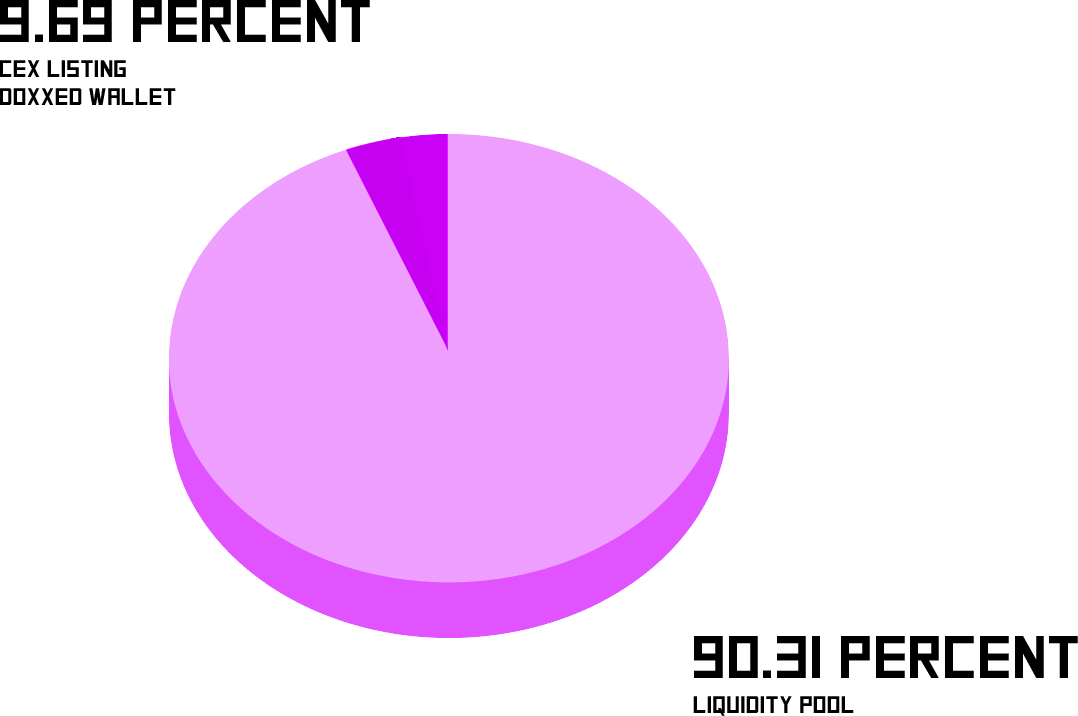
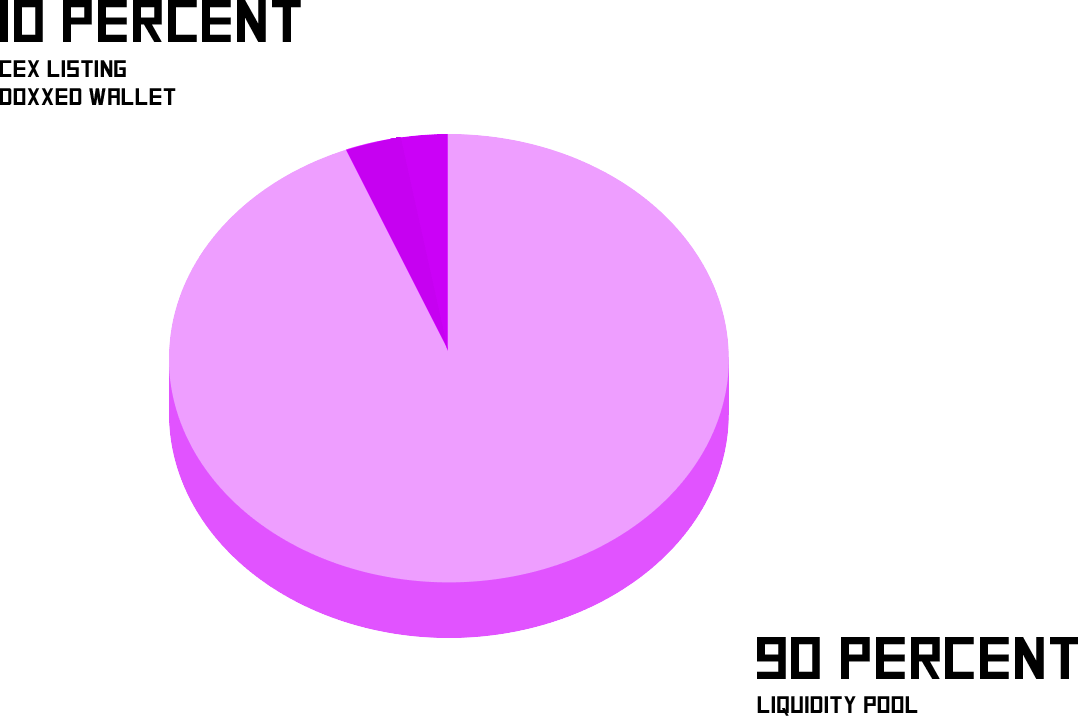
tokens

diff --git a/index.html b/index.html
@@ -74,7 +74,7 @@
                                         <a href="#tokenomics">Tokenomics</a>
                                     </li>  
                                     <li class="menu-item">
-                                        <a href="https://etherscan.io/token/0x000000000000000000000000000000">Etherscan</a>
+                                        <a href="https://etherscan.io/address/00000000000000000000000">Etherscan</a>
                                     </li> 
                                 </ul>
                             </nav>
@@ -105,7 +105,7 @@
                                 <br><br>
                                 TOGETHER WE CAN ALL GO TO THE MOON.</p>
 
-                            <a href="#" class="action-btn"><span>Buy Now</span></a>
+                            <a href="https://app.uniswap.org/#/swap?inputCurrency=ETH&outputCurrency=00000000000000000000000" class="action-btn"><span>Buy Now</span></a>
                         </div>
 
                         <div class="pay">
@@ -116,11 +116,11 @@
                                         <img src="./images/TELEGRAM.svg">
                                         </a>
                                     </li>
-                                    <li><a href="https://app.uniswap.org/">
+                                    <li><a href="https://app.uniswap.org/#/swap?inputCurrency=ETH&outputCurrency=00000000000000000000000">
                                         <img src="./images/UNISWAP.svg">
                                         </a>
                                     </li>
-                                    <li><a href="https://dextools.io/">
+                                    <li><a href="https://www.dextools.io/app/en/ether/pair-explorer/111111">
                                         <img src="./images/DEXTOOLS.svg">
                                         </a>
                                     </li>
@@ -128,7 +128,7 @@
                                         <img src="./images/TWITTER.svg">
                                         </a>
                                     </li>
-                                    <li><a href="https://etherscan.io/">
+                                    <li><a href="https://etherscan.io/address/00000000000000000000000">
                                         <img src="./images/ETHERSCAN.svg">
                                         </a>
                                     </li>
@@ -177,7 +177,7 @@ ON THE MOON, WE BUILD TOGETHER WITH EQUAL $BAGS.<br><br>
 
 NO TEAM TOKENS, NO TAX, NO SOAP DROPPING
                             </p>
-                            <a href="https://www.dextools" class="action-btn"><span>Live Chart</span></a>
+                            <a href="https://www.dextools.io/app/en/ether/pair-explorer/111111" class="action-btn"><span>Live Chart</span></a>
                     </div>
                 </div>
             </div>
@@ -275,7 +275,7 @@ NO TEAM TOKENS, NO TAX, NO SOAP DROPPING
                         <div class="icon">
                             <img class="tokenomics_icon" src="./images/SPLIT.png">
                         </div>
-                        <p>*CEX - 9.69% / LP - 90.31%</p>
+                        <p>*CEX - 10% / LP - 90%</p>
                         <!--<h3 class="number">02</h3>-->
                     </div>
                 </div>
@@ -295,7 +295,7 @@ NO TEAM TOKENS, NO TAX, NO SOAP DROPPING
                         <div class="icon">
                             <img class="tokenomics_icon" src="./images/TEAMTOKENS.png">
                         </div>
-                        <p>Zero reserved for the team</p>
+                        <p>**Zero reserved for the team</p>
                         <!--<h3 class="number">04</h3>-->
                     </div>
                 </div>
@@ -303,7 +303,7 @@ NO TEAM TOKENS, NO TAX, NO SOAP DROPPING
             </div>
 
             <div class="token-notes" data-aos="fade-up" data-aos-duration="3000">
-                *CEX LISTING / BRIDGE - 9.69% OF TOTAL SUPPLY, DOXXED WALLETS<br>
+                *CEX LISTING / BRIDGE - 10% OF TOTAL SUPPLY, DOXXED WALLETS<br>
                 **TEAM TOKENS - NOT A DIME, THE COMMUNITY IS TEAM AND WE ALL BUY TOGETHER
             </div>
          
@@ -395,7 +395,7 @@ NO TEAM TOKENS, NO TAX, NO SOAP DROPPING
                                 <li><a href="#">Home</a></li>
                                 <li><a href="#about">About</a></li>
                                 <li><a href="#toke">Tokenomics</a></li>
-                                <li><a href="https://etherscan.io/token/0x000000000000000000000000000000">Etherscan</a></li>
+                                <li><a href="https://etherscan.io/address/00000000000000000000000">Etherscan</a></li>
                           
                               
                             </ul>
@@ -406,11 +406,11 @@ NO TEAM TOKENS, NO TAX, NO SOAP DROPPING
                                 <img src="./images/TELEGRAM.svg">
                                 </a>
                             </li>
-                            <li><a href="https://app.uniswap.org/">
+                            <li><a href="https://app.uniswap.org/#/swap?inputCurrency=ETH&outputCurrency=00000000000000000000000">
                                 <img src="./images/UNISWAP.svg">
                                 </a>
                             </li>
-                            <li><a href="https://dextools.io/">
+                            <li><a href="https://www.dextools.io/app/en/ether/pair-explorer/111111">
                                 <img src="./images/DEXTOOLS.svg">
                                 </a>
                             </li>
@@ -418,7 +418,7 @@ NO TEAM TOKENS, NO TAX, NO SOAP DROPPING
                                 <img src="./images/TWITTER.svg">
                                 </a>
                             </li>
-                            <li><a href="https://etherscan.io/">
+                            <li><a href="https://etherscan.io/address/00000000000000000000000">
                                 <img src="./images/ETHERSCAN.svg">
                                 </a>
                             </li>
